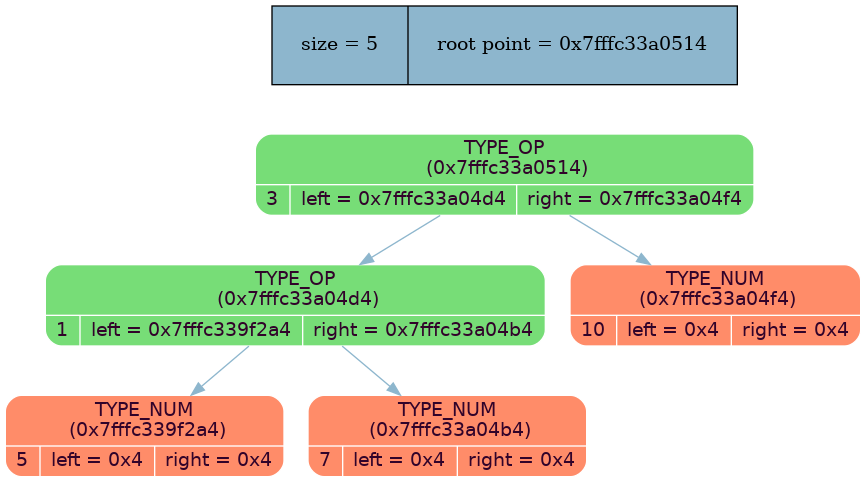
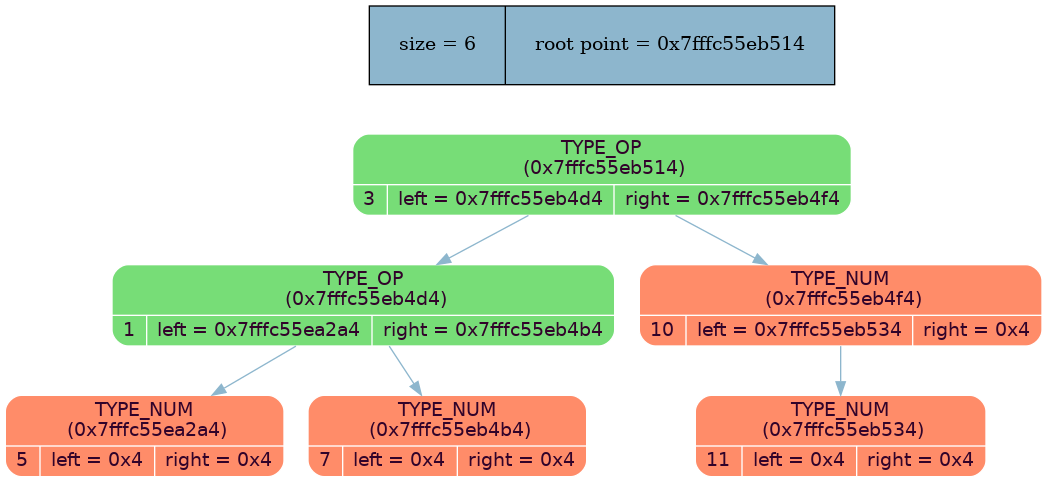
added beautiful logs

diff --git a/dump_info/tree_dump.html b/dump_info/tree_dump.html
@@ -1,37 +1,44 @@
 <pre>
 
-<font color = #8DB6CD size=6>Tree was successfully created root (0x7fffedd012a0)</font>
+<font color = #8DB6CD size=6>Tree was successfully created root (0x7fffd2dc02a0)</font>
 
-<font color = #70DB53 size=4>Created node: address (0x7fffedd024b0) | value  (7)</font>
+<font color = #70DB53 size=5>Created node: address (0x7fffd2dc14b4) | value  (7)</font>
 
-<font color = #6018CF size=4>Created edge: parent address (0x7fffedd024d0) | value (1); left  (0x7fffedd012a0) | value (5)</font>
+<font color = #6018CF size=5>Created edge: parent address (0x7fffd2dc14d4) | value (1); left  (0x7fffd2dc02a4) | value (1)</font>
 
-<font color = #6018CF size=4>Created edge: parent address (0x7fffedd024d0) | value (1); right  (0x7fffedd024b0) | value (7)</font>
+<font color = #6018CF size=5>Created edge: parent address (0x7fffd2dc14d4) | value (1); right  (0x7fffd2dc14b4) | value (1)</font>
 
-<font color = #70DB53 size=4>Created node: address (0x7fffedd024d0) | value  (1)</font>
+<font color = #70DB53 size=5>Created node: address (0x7fffd2dc14d4) | value  (1)</font>
 
-<font color = #70DB53 size=4>Created node: address (0x7fffedd024f0) | value  (10)</font>
+<font color = #70DB53 size=5>Created node: address (0x7fffd2dc14f4) | value  (10)</font>
 
-<font color = #6018CF size=4>Created edge: parent address (0x7fffedd02510) | value (3); left  (0x7fffedd024d0) | value (1)</font>
+<font color = #6018CF size=5>Created edge: parent address (0x7fffd2dc1514) | value (3); left  (0x7fffd2dc14d4) | value (3)</font>
 
-<font color = #6018CF size=4>Created edge: parent address (0x7fffedd02510) | value (3); right  (0x7fffedd024f0) | value (10)</font>
+<font color = #6018CF size=5>Created edge: parent address (0x7fffd2dc1514) | value (3); right  (0x7fffd2dc14f4) | value (3)</font>
 
-<font color = #70DB53 size=4>Created node: address (0x7fffedd02510) | value  (3)</font>
+<font color = #70DB53 size=5>Created node: address (0x7fffd2dc1514) | value  (3)</font>
 
-(((5)+(7))*(10))
+<font color = #70DB53 size=5>Created node: address (0x7fffd2dc1534) | value  (11)</font>
+
+<font color = red size=4>Node with type of num has child(ren): address (0x7fffd2dc14f4) | value  (10)</font>
+<font color = #6018CF size=5>Created edge: parent address (0x7fffd2dc14f4) | value (10); left  (0x7fffd2dc1534) | value (10)</font>
+
+(*(+(5)(7))(10(11)))
 
 
 <font color = #8DB6CD size=6>Here is the print of your tree</font>
 <img src = tree_dump.png width=800 height=350>
-<font color = #E6643D size=4>Node was deleted: address (0x7fffedd012a4) </font>
+<font color = orange size=5>Node was removed: address (0x7fffd2dc02a4) </font>
 
-<font color = #E6643D size=4>Node was deleted: address (0x7fffedd024b4) </font>
+<font color = orange size=5>Node was removed: address (0x7fffd2dc14b4) </font>
 
-<font color = #E6643D size=4>Node was deleted: address (0x7fffedd024d4) </font>
+<font color = orange size=5>Node was removed: address (0x7fffd2dc14d4) </font>
 
-<font color = #E6643D size=4>Node was deleted: address (0x7fffedd024f4) </font>
+<font color = orange size=5>Node was removed: address (0x7fffd2dc1534) </font>
 
-<font color = #E6643D size=4>Node was deleted: address (0x7fffedd02514) </font>
+<font color = orange size=5>Node was removed: address (0x7fffd2dc14f4) </font>
+
+<font color = orange size=5>Node was removed: address (0x7fffd2dc1514) </font>
 
 <font color = #8DB6CD size=6>Tree was cleared and deleted </font>
 

diff --git a/tree_func.cpp b/tree_func.cpp
@@ -8,7 +8,7 @@ tree_node_t* constructor (tree_t* pine, int node_type, tree_data_type value)
     pine->root = (tree_node_t*) calloc (pine->size, sizeof (tree_node_t));
     pine->html_logs = fopen ("./dump_info/tree_dump.html", "w");
     MY_ASSERT (pine->root != NULL && pine->html_logs != NULL);
-    fprintf   (pine->html_logs, "<pre>\n\n<font color = #8DB6CD size=6>Tree was successfully created root (%p)</font>\n\n", pine->root);
+    write_html_logs (T_TREE_SUC_CREATED, pine);
 
     pine->root->value     = value;
     pine->root->node_type = node_type;
@@ -30,7 +30,7 @@ tree_node_t* tree_create (tree_t* pine, int node_type, tree_data_type value, tre
     if (l_child != NULL) tree_link_l (pine, tmp_node, l_child);
     if (r_child != NULL) tree_link_r (pine, tmp_node, r_child);
 
-    fprintf (pine->html_logs, "<font color = #70DB53 size=4>Created node: address (%p) | value  (%d)</font>\n\n", tmp_node, tmp_node->value);
+    write_html_logs (T_NODE_SUC_CREATED, pine, tmp_node);
     return  tmp_node;
 }
 
@@ -42,16 +42,15 @@ tree_node_t* tree_link_l (tree_t* pine, tree_node_t* parent, tree_node_t* child)
 
     if (parent->node_type == TYPE_NUM)
     {
-        fprintf (pine->html_logs, "<font color = red size=4>Node with type of num has child(ren): address (%p) | value  (%d)</font>\n", &parent->value, parent->value);
+        write_html_logs (T_TYPE_NUM_HAS_CHILD, pine, parent);
     }
     if (parent->left == NULL)
     {
         parent->left  = child;
-        fprintf (pine->html_logs, "<font color = #6018CF size=4>Created edge: parent address (%p) | value (%d); left  (%p) | value (%d)</font>\n\n",
-                                                                              parent,            parent->value, child, child->value);
+        write_html_logs (T_L_EDGE_SUC_CREATED, pine, parent);
         return parent->left;
     }
-    fprintf (stderr, "Impossible to add node to not terminal\n");
+    write_html_logs (T_FAIL_OF_CREATING_EDGE, pine);
     return NULL;
 }
 
@@ -61,16 +60,15 @@ tree_node_t* tree_link_r (tree_t* pine, tree_node_t* parent, tree_node_t* child)
 
     if (parent->node_type == TYPE_NUM)
     {
-        fprintf (pine->html_logs, "<font color = red size=4>Node with type of num has child(ren): address (%p) | value  (%d)</font>\n", &parent->value, parent->value);
+        write_html_logs (T_TYPE_NUM_HAS_CHILD, pine, parent);
     }
     if (parent->right == NULL)
     {
         parent->right = child;
-        fprintf (pine->html_logs, "<font color = #6018CF size=4>Created edge: parent address (%p) | value (%d); right  (%p) | value (%d)</font>\n\n",
-                                                                              parent,            parent->value, child, child->value);
+        write_html_logs (T_R_EDGE_SUC_CREATED, pine, parent);
         return parent->right;
     }
-    fprintf (stderr, "Impossible to add node to not terminal\n");
+    write_html_logs (T_FAIL_OF_CREATING_EDGE, pine);
     return NULL;
 }
 
@@ -133,7 +131,7 @@ tree_node_t* tree_remove  (tree_t* pine, tree_node_t* node)
         ret_node->left = NULL;
     }
     pine->size--;
-    fprintf (pine->html_logs, "<font color = oranged size=4>Node was removed: address (%p) </font>\n\n", node);
+    write_html_logs (T_NODE_SUC_DELETED , pine, node);
     return node;
 }
 
@@ -151,10 +149,10 @@ tree_node_t* tree_delete (tree_t* pine, tree_node_t* tree_root)
     }
     free (tree_root);
 
-    fprintf (pine->html_logs, "<font color = #E6643D size=4>Node was deleted: address (%p) </font>\n\n", &tree_root->value);
+    write_html_logs (T_NODE_SUC_DELETED , pine, tree_root);
     if (tree_root == pine->root)
     {
-        fprintf (pine->html_logs, "<font color = #8DB6CD size=6>Tree was cleared and deleted </font>\n\n");
+        write_html_logs (T_TREE_WAS_CLEARED, pine);
         fclose  (pine->html_logs);
     }
 

diff --git a/brackets_func.cpp b/brackets_func.cpp
@@ -2,7 +2,7 @@
 
 double tree_eval (tree_t* pine, tree_node_t* tree_node)
 {
-    //MY_ASSERT (pine != NULL, tree_node != NULL)
+    MY_ASSERT (pine != NULL && tree_node != NULL)
     if (tree_node->node_type == TYPE_NUM)
     {
         return tree_node->value;
@@ -23,7 +23,7 @@ double tree_eval (tree_t* pine, tree_node_t* tree_node)
             double tmp_val = tree_eval (pine, tree_node->right);
             if (tmp_val == 0)
             {
-                fprintf (pine->html_logs, "<font color = red size=4>Attempt of division by zero was delayed</font>\n\n");
+                fprintf (pine->html_logs, "<font color = red size=5>Attempt of division by zero was delayed</font>\n\n");
                 return tmp_val;
             }
             return tree_eval (pine, tree_node->left) / tree_eval (pine, tree_node->right);
@@ -35,20 +35,19 @@ double tree_eval (tree_t* pine, tree_node_t* tree_node)
 
 int write_brackets (tree_t* pine, tree_node_t* tree_node)
 {
+    MY_ASSERT (pine != NULL && tree_node != NULL)
+
     fprintf (pine->html_logs, "(");
-
-
-    if (tree_node->left != NULL)
-    {
-        write_brackets (pine, tree_node->left);
-    }
-
     if      (tree_node->node_type == TYPE_NUM) fprintf (pine->html_logs, "%d", tree_node->value);
     else if (tree_node->value     == OP_ADD)   fprintf (pine->html_logs, "+");
     else if (tree_node->value     == OP_SUB)   fprintf (pine->html_logs, "-");
     else if (tree_node->value     == OP_MUL)   fprintf (pine->html_logs, "*");
     else if (tree_node->value     == OP_DIV)   fprintf (pine->html_logs, "/");
 
+    if (tree_node->left != NULL)
+    {
+        write_brackets (pine, tree_node->left);
+    }
     if (tree_node->right != NULL)
     {
         write_brackets (pine, tree_node->right);

diff --git a/tree.h b/tree.h
@@ -27,6 +27,8 @@ struct tree_t
     FILE*   html_logs;
 };
 
+//------------------------------------------------------------------------------------------------------------------------------------------------------------------------------------------------------------
+
 enum NODE_TYPE
 {
     TYPE_NUM = 1,
@@ -41,6 +43,20 @@ enum OPER_TYPE
     OP_DIV = 4,
 };
 
+enum TREE_CODE_OF_PRINT
+{
+    T_TREE_SUC_CREATED      =  0,
+    T_NODE_SUC_CREATED      =  1,
+    T_FAIL_OF_CREATING_NODE = -1,
+    T_L_EDGE_SUC_CREATED    =  2,
+    T_R_EDGE_SUC_CREATED    =  3,
+    T_FAIL_OF_CREATING_EDGE = -2,
+    T_TREE_PRINT            =  4,
+    T_NODE_SUC_DELETED      =  5,
+    T_TREE_WAS_CLEARED      =  6,
+    T_TYPE_NUM_HAS_CHILD    = -3,
+};
+
 //------------------------------------------------------------------------------------------------------------------------------------------------------------------------------------------------------------
 
 tree_node_t* constructor (tree_t* pine, int node_type, tree_data_type value);
@@ -51,7 +67,9 @@ tree_node_t* tree_link_r (tree_t* pine, tree_node_t* parent, tree_node_t* child)
 tree_node_t* tree_remove (tree_t* pine, tree_node_t* node);
 tree_node_t* tree_search (tree_node_t* tree_root, tree_node_t* node);
 
-void         graph_dump   (tree_t* pine);
-tree_node_t* tree_print   (FILE* graphviz, dump_graph_t* graph_dump_set ,tree_node_t* parent);
+void         graph_dump      (tree_t* pine);
+tree_node_t* tree_print      (FILE* graphviz, dump_graph_t* graph_dump_set, tree_node_t* parent);
+void         write_html_logs (int code_of_print, tree_t* pine = NULL, tree_node_t* node = NULL);
+
 
 tree_node_t* tree_delete (tree_t* pine, tree_node_t* tree_root);

diff --git a/main.cpp b/main.cpp
@@ -7,9 +7,11 @@ int main ()
     constructor (&pine, TYPE_NUM, 5);
 
     tree_node_t* node1 = tree_create (&pine, TYPE_NUM, 7);
-    tree_node_t* node3 = tree_create (&pine, TYPE_OP, OP_ADD, pine.root, node1);
+    tree_node_t* node3 = tree_create (&pine, TYPE_OP,  OP_ADD, pine.root, node1);
     tree_node_t* node4 = tree_create (&pine, TYPE_NUM, 10);
     tree_node_t* node2 = tree_create (&pine, TYPE_OP,  OP_MUL, node3, node4);
+    tree_node_t* node5 = tree_create (&pine, TYPE_NUM, 11);
+    tree_link_l (&pine, node4, node5);
 
     double res = tree_eval (&pine, pine.root);
     printf ("%lg", res);
